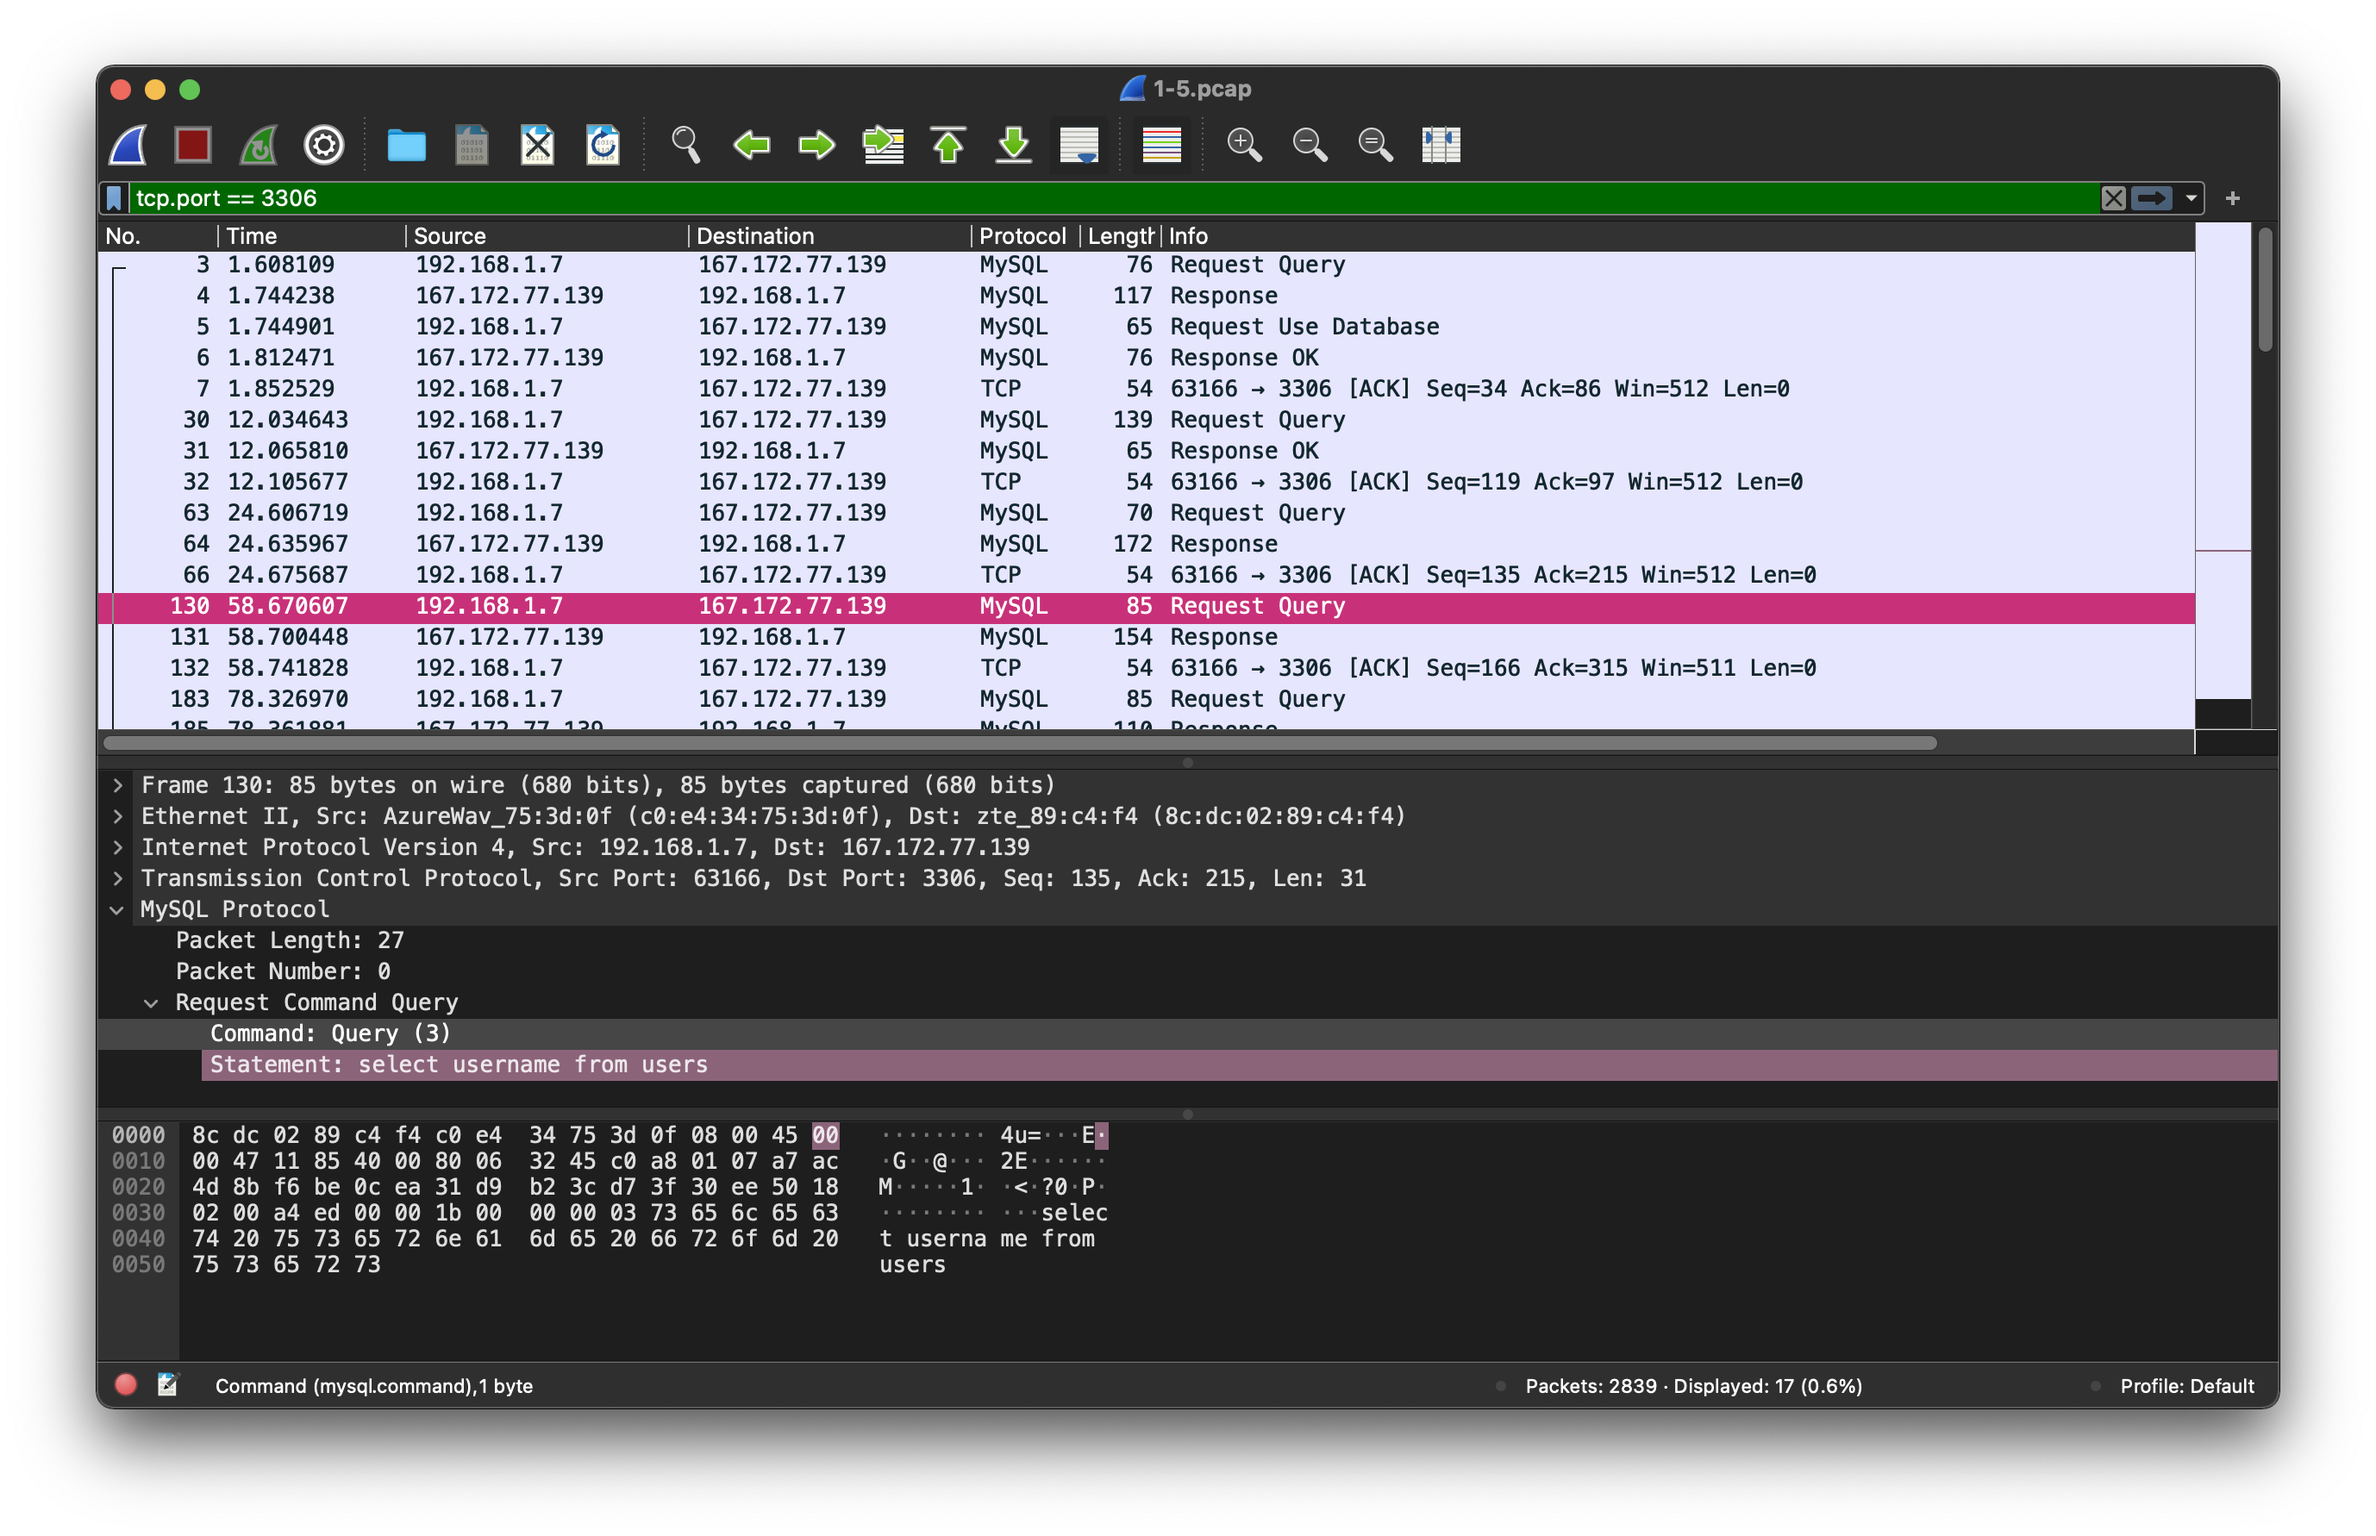
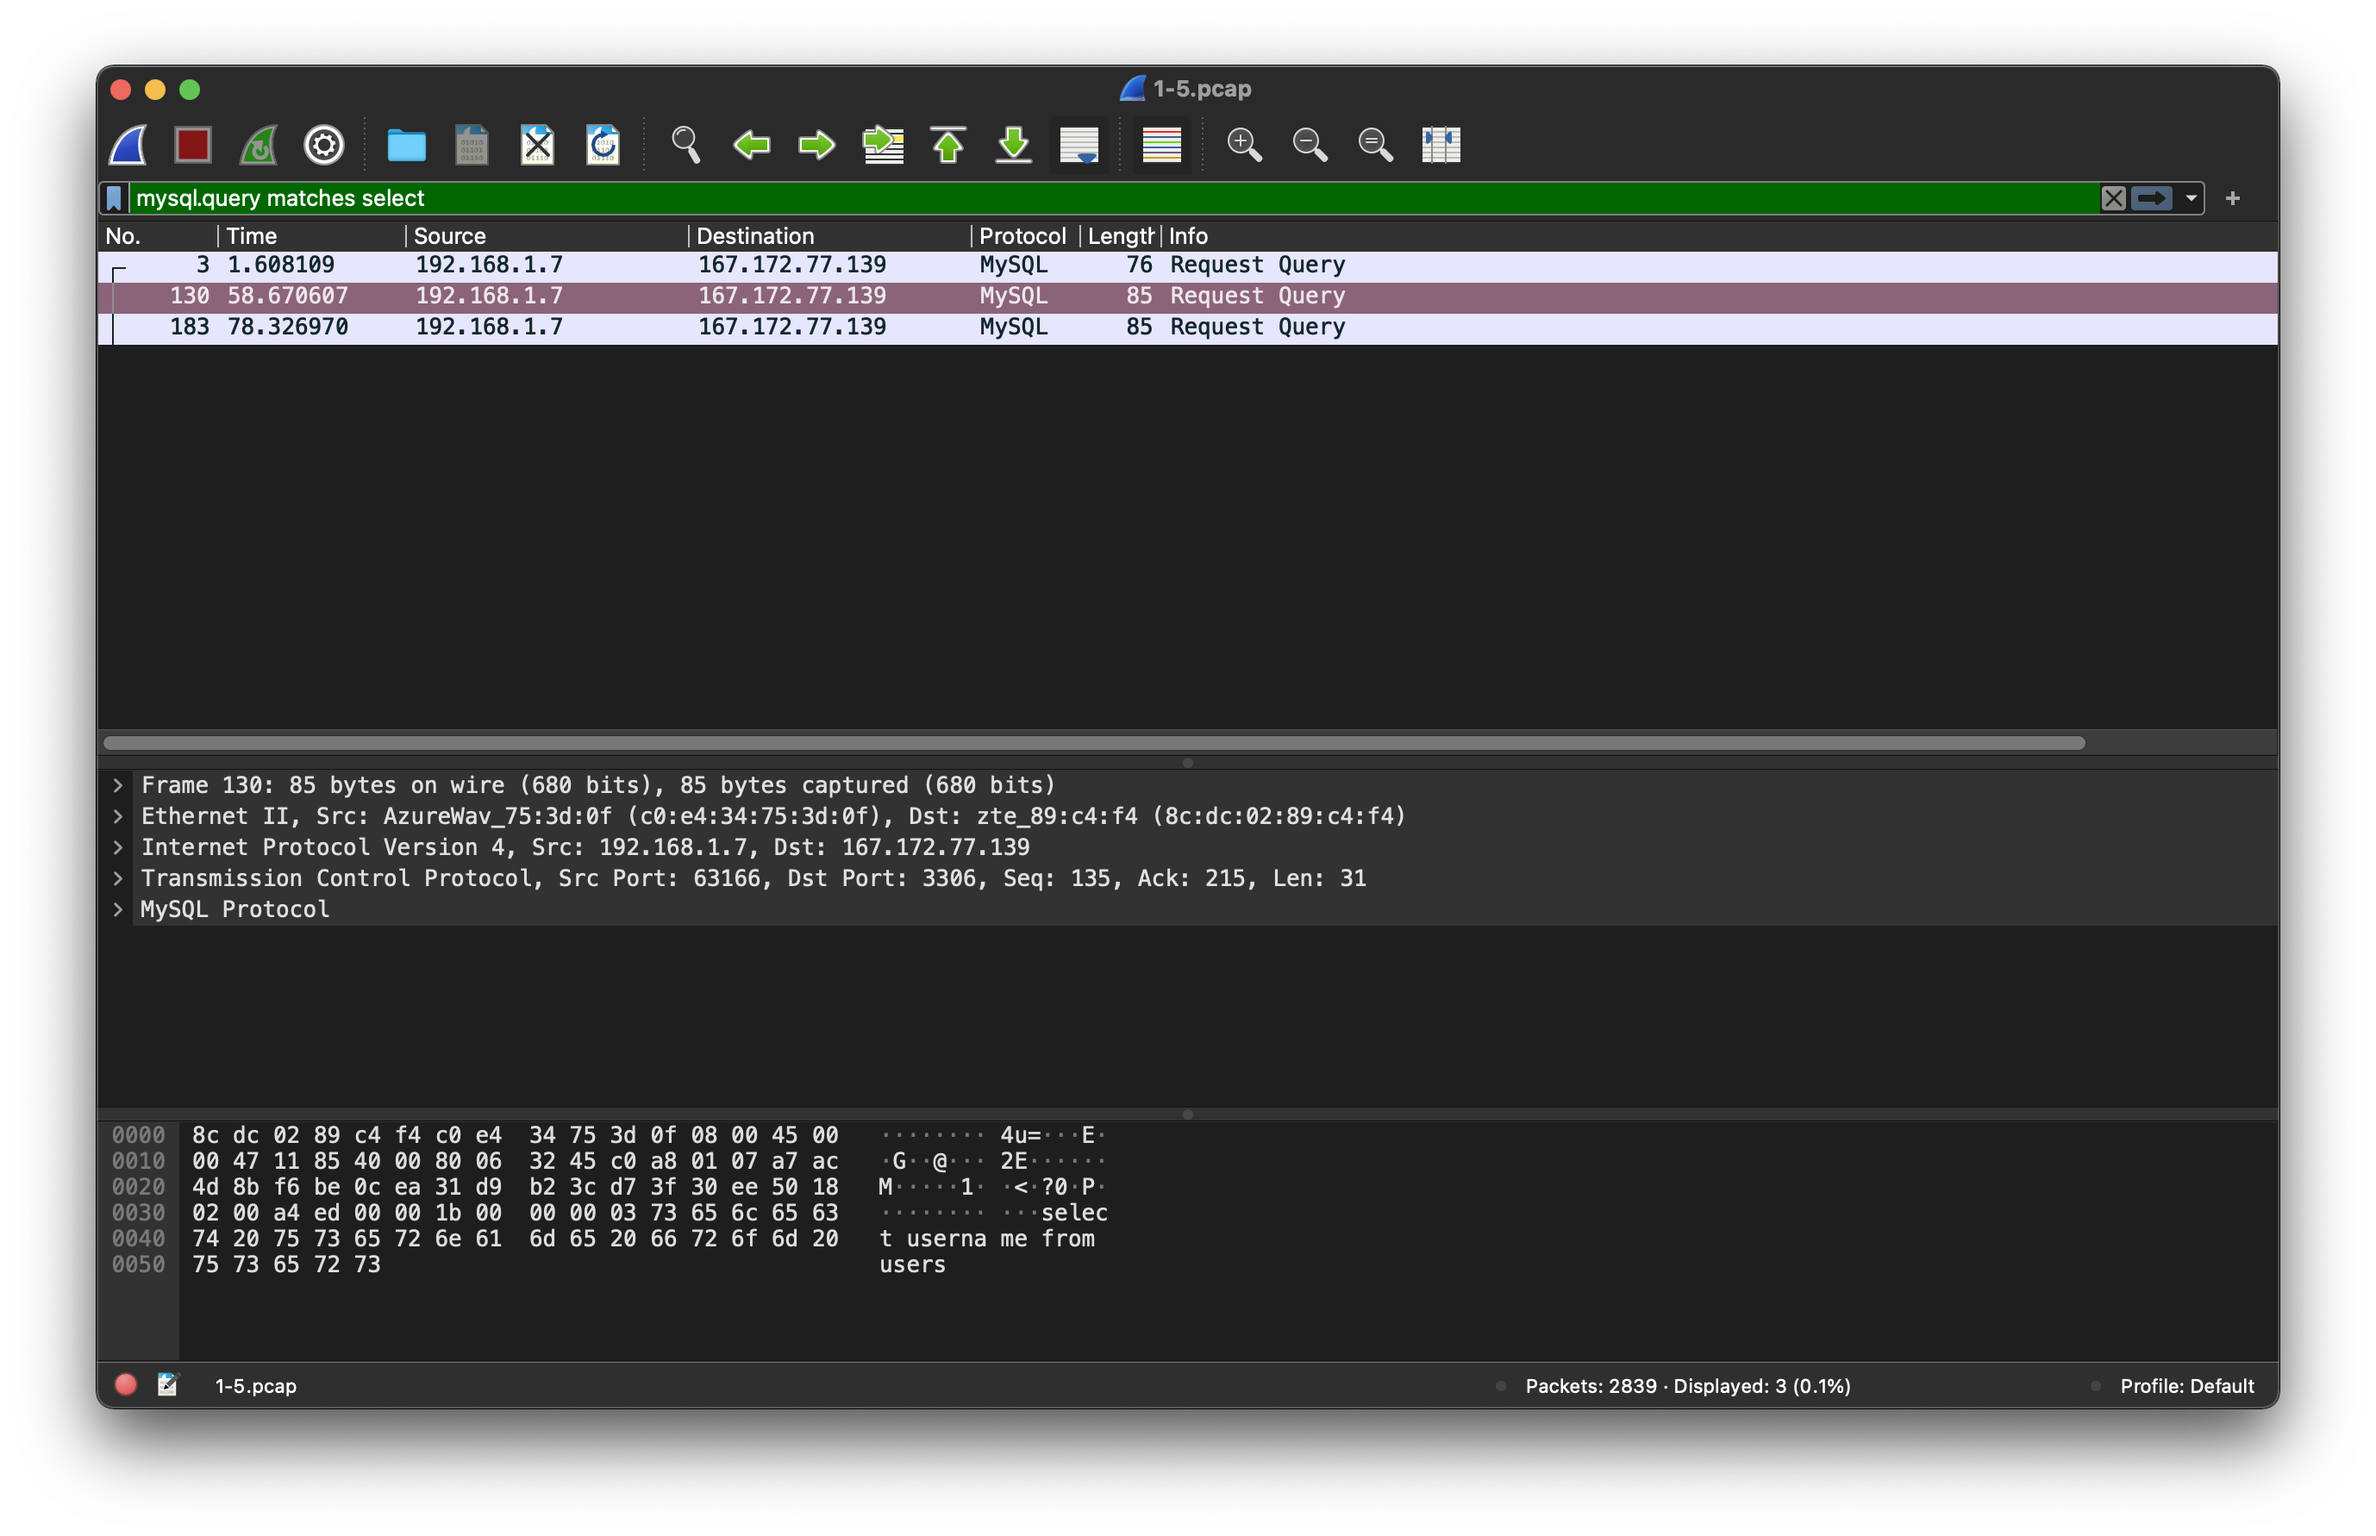
update no 4

diff --git a/README.md b/README.md
@@ -26,7 +26,7 @@ Gunakan syntax filter `http.authbasic` maka diperoleh hasil berikut :
 - Isi jawaban urutan konfigurasi pengkabelan `T568A`
 ![Nomor 3](assets/Nomor%203.png)
 ## 4. Temukan paket mysql yang mengandung perintah query select!
-Gunakan filter `tcp.port == 3306` karena port default NySQL adalah 3306
+Gunakan filter `mysql.query matches select`
 ![no4-1](assets/no4-1.png)
 ![no4-2](assets/no4-2.png)
 ![no4-3](assets/no4-3.png)
